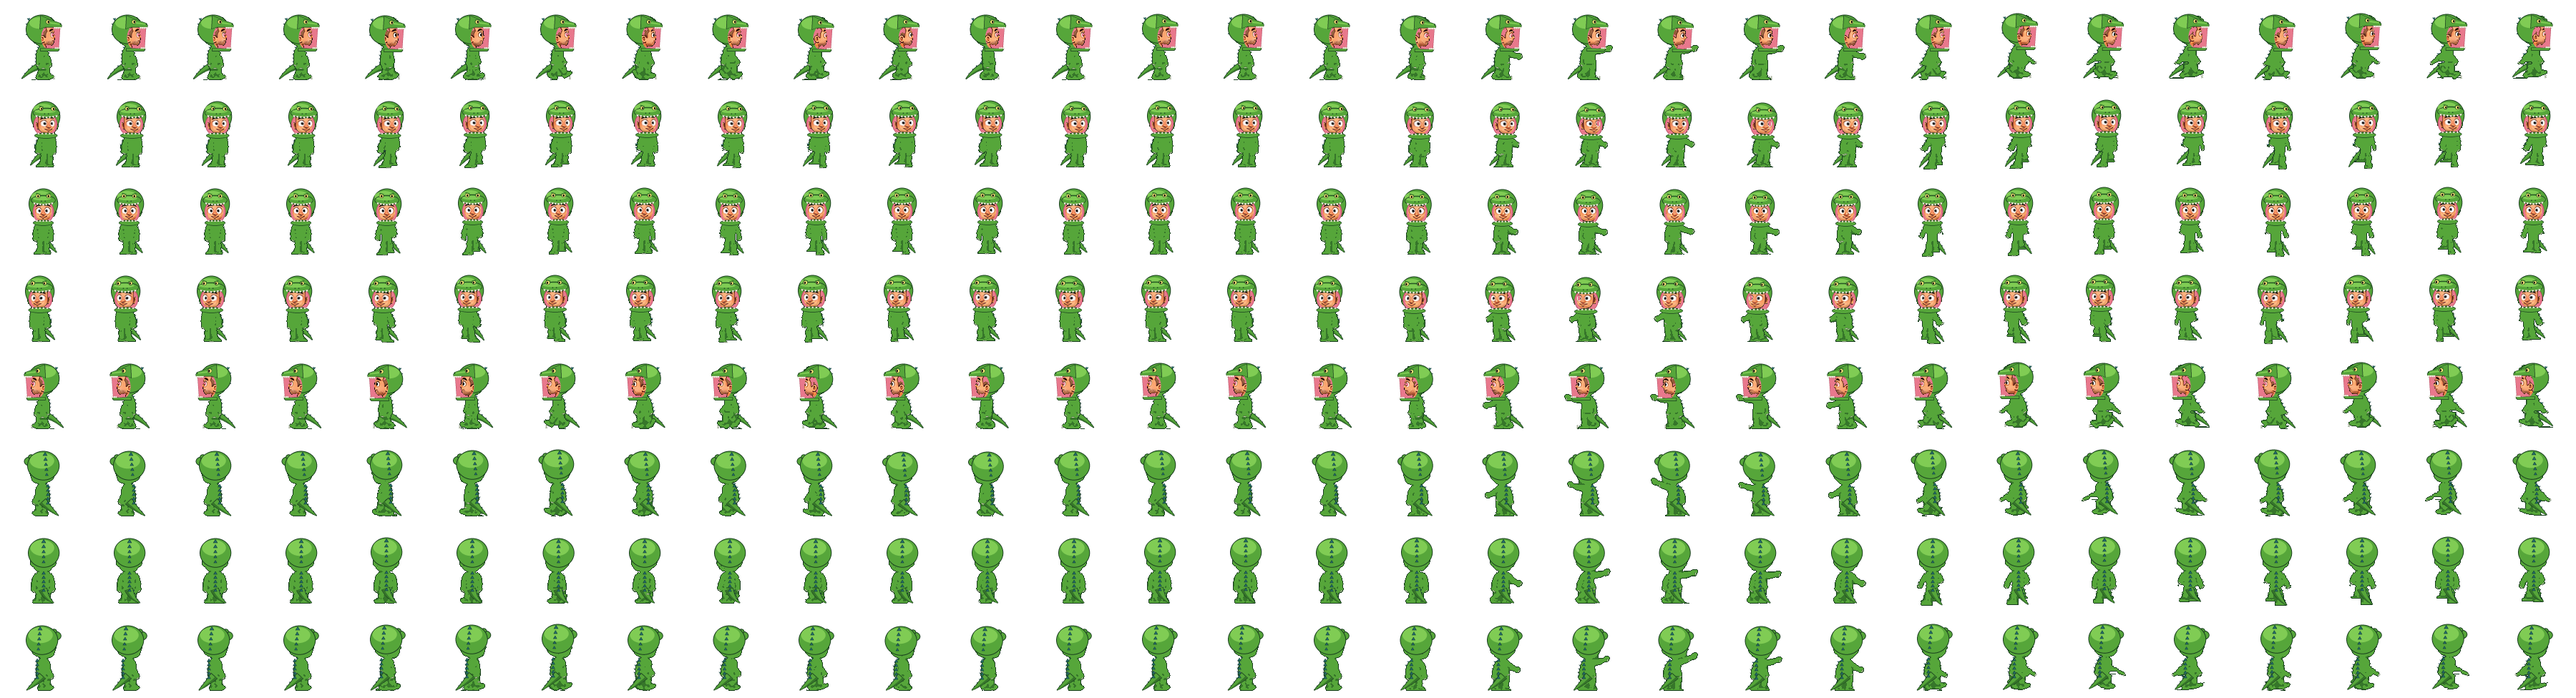
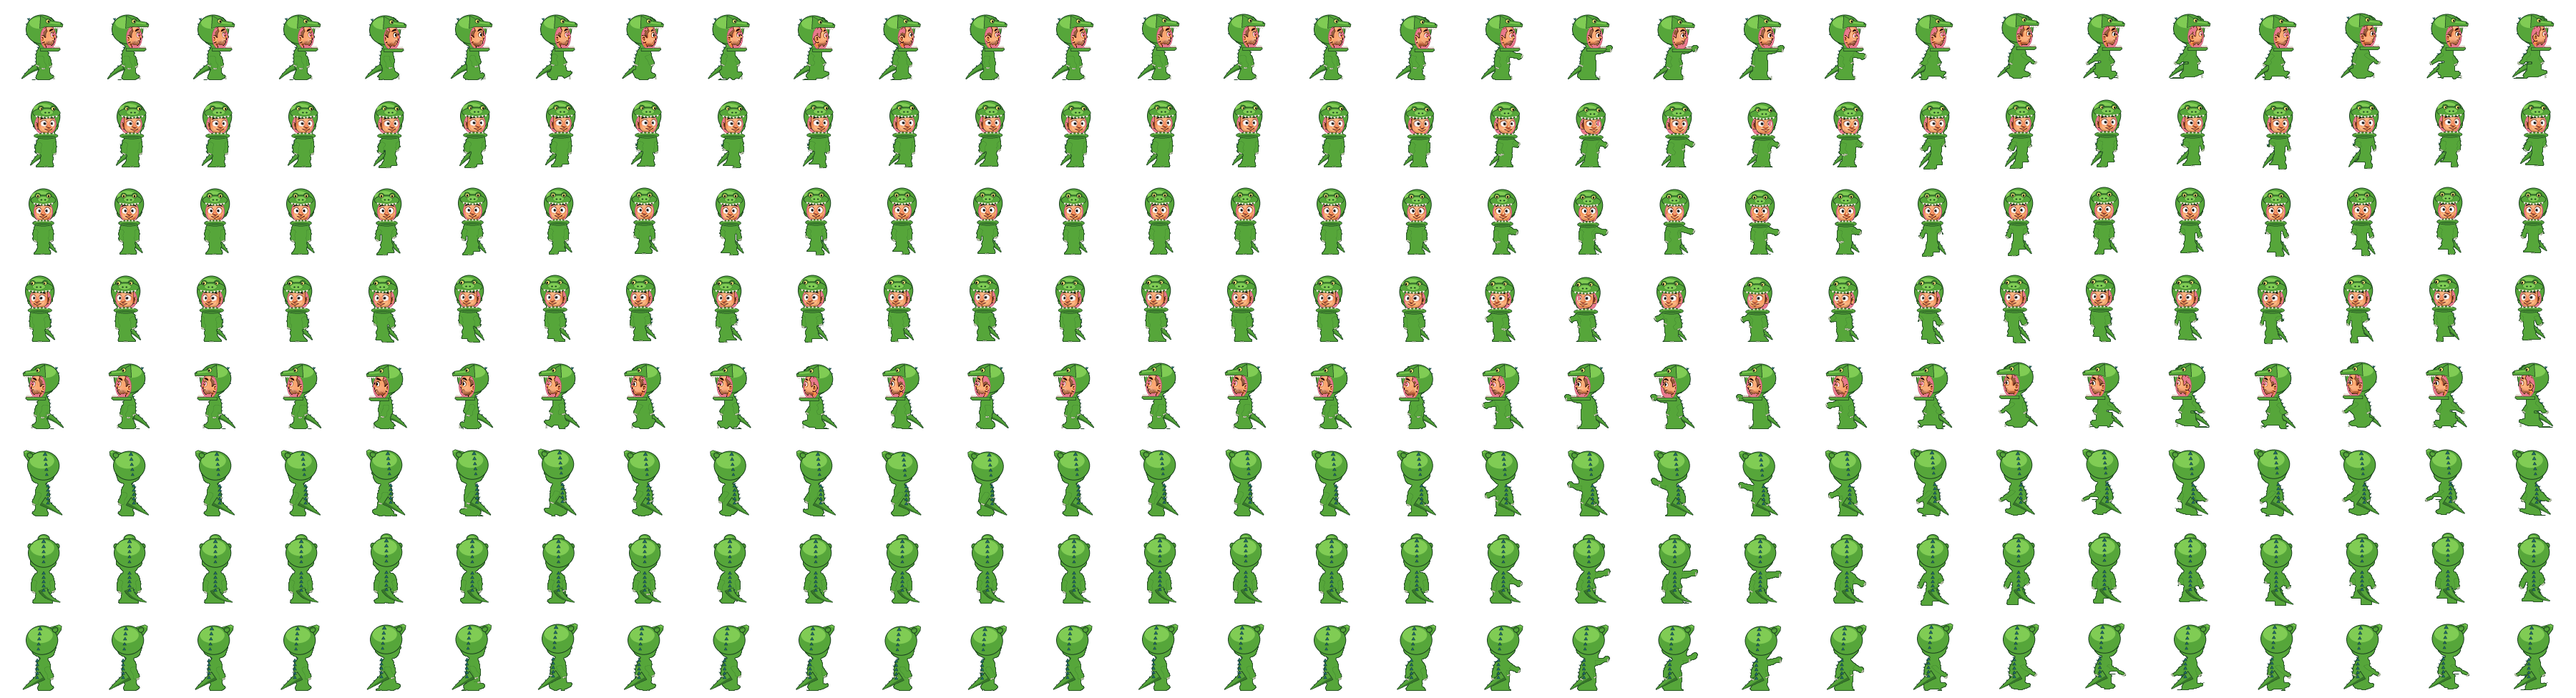
Dino skin: snout projects over face in profile, back-view snout/eye ridges, front snout+nostrils, smooth AA outlines, readable claws

diff --git a/phaser-tag-client/tools/make_trex_skin.py b/phaser-tag-client/tools/make_trex_skin.py
@@ -344,37 +344,38 @@ def box_blur(x: np.ndarray, r: int) -> np.ndarray:
     return s / (k * k)
 
 
-def onesie(f: np.ndarray, solid: np.ndarray) -> np.ndarray:
-    rgb = f[..., :3].astype(np.float64)
-    lum = rgb @ np.array([0.3, 0.59, 0.11])
-    a = alpha_mask(f)
-    filled_lum = np.where(a, lum, np.nan)
-    m = np.nan_to_num(filled_lum, nan=0)
-    w = box_blur(a.astype(float), 3)
-    local = box_blur(m, 3) / np.maximum(w, 1e-6)
-    out = np.zeros(f.shape, dtype=np.float64)
-    col = np.empty(f.shape[:2] + (3,))
+def _up(mask: np.ndarray, blur: float) -> np.ndarray:
+    """Upsample a binary mask to SS resolution with smooth contours."""
+    from PIL import ImageFilter
+    h, w = mask.shape
+    im = Image.fromarray((mask * 255).astype(np.uint8)).resize((w * SS, h * SS), Image.BILINEAR)
+    im = im.filter(ImageFilter.GaussianBlur(blur * SS))
+    return np.asarray(im).astype(np.float64) / 255.0
+
+
+def onesie(solid: np.ndarray, arms: np.ndarray) -> np.ndarray:
+    """Solid green onesie with smooth anti-aliased outlines (flat fill)."""
+    h, w = solid.shape
+    m = _up(solid, 0.45) > 0.5
+    soft = _up(m[::1, ::1].astype(float), 0) if False else None  # noqa: F841
+    from PIL import ImageFilter
+    mi = Image.fromarray((m * 255).astype(np.uint8))
+    inner = np.asarray(mi.filter(ImageFilter.MinFilter(2 * int(0.8 * SS) + 1))) > 127
+    col = np.empty((h * SS, w * SS, 3))
     col[:] = G_MID
-    rel = np.where(a, lum / np.maximum(local, 1), 1.0)
-    tone = np.ones(f.shape[:2], dtype=np.int32)
-    tone[rel < 0.62] = 0
-    # 3x3 majority filter -> flat shading, no speckle
-    votes = np.stack([box_blur((tone == k).astype(float), 1) for k in range(3)])
-    votes[1] += 0.12
-    tone = votes.argmax(0)
-    col[tone == 0] = G_DARK
-    col[tone == 2] = G_LIGHT
-    # silhouette edge
-    inner = solid.copy()
-    inner[1:] &= solid[:-1]
-    inner[:-1] &= solid[1:]
-    inner[:, 1:] &= solid[:, :-1]
-    inner[:, :-1] &= solid[:, 1:]
-    col[solid & ~inner] = G_LINE
-    out[..., :3] = col / 255.0
-    out[..., 3] = solid.astype(float)
-    out[..., :3] *= out[..., 3:4]
-    return out
+    # soft flat shadow on the lower/back half of each limb region is skipped:
+    # one clean fill + light belly sheen keeps it readable at game size.
+    if arms.any():
+        am = _up(arms, 0.45) > 0.5
+        ai = np.asarray(Image.fromarray((am * 255).astype(np.uint8))
+                        .filter(ImageFilter.MinFilter(2 * int(0.35 * SS) + 1))) > 127
+        col[am & ~ai & inner] = G_DARK
+    col[m & ~inner] = G_LINE
+    rgba = np.zeros((h * SS, w * SS, 4), dtype=np.uint8)
+    rgba[..., :3] = col.astype(np.uint8)
+    rgba[..., 3] = m * 255
+    small = Image.fromarray(rgba).resize((w, h), Image.BOX)
+    return premul(np.asarray(small))
 
 
 # ---------------------------------------------------------------- per frame
@@ -411,12 +412,13 @@ def build(frame: np.ndarray, direction: str, col: int, prof: dict) -> np.ndarray
         face = inside & fill_holes(sk & inside) & solid
 
     hands = np.zeros_like(a)
+    arms = np.zeros_like(a)
     try:
-        _, hands = arms_and_hands(f, g, face)
+        arms, hands = arms_and_hands(f, g, face)
     except Exception:
         pass
 
-    body = onesie(f, solid)
+    body = onesie(solid, arms)
     sway = math.sin(col * 2 * math.pi / 8) * 0.8
 
     # ---- tail
@@ -444,14 +446,14 @@ def build(frame: np.ndarray, direction: str, col: int, prof: dict) -> np.ndarray
     elif direction == "N":
         p0 = (ax, ay - 2)
         p1 = (ax + 4, ay + 10)
-        p2 = (ax + 15 + sway, ground + 1)
-        tail(tcv, p0, p1, p2, 5.5, 0)
+        p2 = (ax + 24 + sway, ground)
+        tail(tcv, p0, p1, p2, 6.0, 0)
     else:  # NE / NW: tail trails behind, toward the viewer
         b = -fc
         p0 = (ax, ay - 2)
-        p1 = (ax + b * 9, ay + 8)
-        p2 = (ax + b * 22 + sway, ground + 1)
-        tail(tcv, p0, p1, p2, 5.5, 0)
+        p1 = (ax + b * 12, ay + 6)
+        p2 = (ax + b * 27 + sway, ground)
+        tail(tcv, p0, p1, p2, 6.0, 0)
     tail_l = tcv.premul()
 
     # ---- back spikes (behind the body, peeking out along the spine)
@@ -472,18 +474,31 @@ def build(frame: np.ndarray, direction: str, col: int, prof: dict) -> np.ndarray
     hb = Canvas(W, H)  # hood shell (under face)
     hf = Canvas(W, H)  # jaws / teeth / eyes (over face)
     if ell is None:
-        # back view: whole head in hood
+        # back view: whole head in hood, snout + eye bumps poke past it
         cx = hcx
-        if direction != "N":
-            # snout nub peeking on the far side
-            hb.ellipse(cx + fc * (hw - 1), top + 12, 7, 5.5, G_MID, G_LINE)
-            hb.ellipse(cx + fc * (hw - 3), top + 6, 3.2, 2.6, G_MID, G_LINE)
+        if direction == "N":
+            hb.ellipse(cx, top - 1.5, 7.5, 5.5, G_MID, G_LINE)
+            hb.ellipse(cx - 1, top - 3.0, 4.5, 2.2, G_LIGHT)
+            for d in (-1, 1):
+                hb.ellipse(cx + d * (hw - 0.5), top + 9, 2.4, 3.2, G_MID, G_LINE)
+        else:
+            hb.poly([(cx + fc * 1, top + 3), (cx + fc * (hw + 4), top - 3.5),
+                     (cx + fc * (hw + 7.5), top - 1.5), (cx + fc * (hw + 7), top + 3.5),
+                     (cx + fc * (hw + 1), top + 12)], G_MID, G_LINE, 0.9)
+            hb.poly([(cx + fc * (hw + 3), top - 2.2), (cx + fc * (hw + 6.5), top - 0.8),
+                     (cx + fc * (hw + 6), top + 0.6), (cx + fc * (hw + 2.5), top - 0.6)], G_LIGHT)
         hb.ellipse(cx, top + 18, hw + 1.5, 19.5, G_MID, G_LINE)
         hb.ellipse(cx - 2, top + 11, hw - 3, 11, G_LIGHT)
+        if direction == "N":
+            for d in (-1, 1):
+                hf.line([(cx + d * (hw - 4.5), top + 5.0), (cx + d * (hw - 0.5), top + 7.0)], G_DARK, 1.6)
+        else:
+            hf.ellipse(cx + fc * (hw - 1.5), top + 3.5, 3.2, 3.2, G_MID, G_LINE)
+            hf.line([(cx + fc * (hw - 5), top + 2.0), (cx + fc * (hw + 0.5), top + 0.5)], G_DARK, 1.6)
         sx = cx - fc * 2.5
         for i, y in enumerate((top + 2, top + 9, top + 16, top + 23, top + 30)):
-            s = 4.6 - i * 0.3
-            spike(hf, sx - fc * i * 0.6, y + 2, 0, -1, s, s * 0.6)
+            sz = 4.6 - i * 0.3
+            spike(hf, sx - fc * i * 0.6, y + 2, 0, -1, sz, sz * 0.6)
         for y in np.arange(neck + 5, hem - 1, 6.0):
             spike(hf, sx - fc * 4, y, 0, -1, 4.0, 2.4)
     else:
@@ -493,64 +508,64 @@ def build(frame: np.ndarray, direction: str, col: int, prof: dict) -> np.ndarray
             s = fc * 1.5
             hb.ellipse(hcx, top + 19, hw + 1.5, 20.5, G_MID, G_LINE)
             hb.ellipse(hcx - 3, top + 9, hw - 4, 8, G_LIGHT)
-            # pink mouth lining around the face opening
-            hb.ellipse(ex, ey + 0.5, rx + 2.3, ry + 2.0, PINK, PINK_DARK, 0.7)
+            hb.ellipse(ex, ey + 0.3, rx + 1.1, ry + 1.0, PINK, PINK_DARK, 0.5)
             # lower jaw under the chin
-            hf.ellipse(ex + s * 0.5, chin + 2.2, rx + 1.8, 3.2, G_MID, G_LINE, 0.8)
+            hf.ellipse(ex + s * 0.5, chin + 2.4, rx + 2.5, 3.6, G_MID, G_LINE, 0.8)
+            hf.ellipse(ex + s * 0.5, chin + 3.6, rx, 1.4, G_DARK)
             for i in range(-2, 3):
-                tooth(hf, ex + s * 0.5 + i * rx * 0.38, chin + 0.4, True, 2.8)
-            # upper jaw / snout band over the forehead
+                tooth(hf, ex + s * 0.5 + i * rx * 0.38, chin + 0.2, True, 2.8)
+            # upper jaw + snout over the forehead
             jy = ftop - 1.5
-            hf.ellipse(ex + s, jy, rx + 4.5, 6.2, G_MID, G_LINE, 0.9)
-            hf.ellipse(ex + s - 2, jy - 2.5, rx + 1, 2.6, G_LIGHT)
+            for d in (-1, 1):  # eye bumps (behind the snout)
+                hf.ellipse(ex + s + d * rx * 0.64 + s * 0.6, jy - 6.0, 3.6, 3.4, G_MID, G_LINE, 0.8)
+            hf.ellipse(ex + s, jy, rx + 5, 6.4, G_MID, G_LINE, 0.9)
+            hf.ellipse(ex + s * 1.4, jy - 1.2, rx * 0.62, 4.0, G_LIGHT, G_DARK, 0.5)
             for i in range(-3, 4):
-                tooth(hf, ex + s + i * (rx + 2) * 0.3, jy + 5.2 - abs(i) * 0.6, False, 3.0)
-            # nostrils
+                tooth(hf, ex + s + i * (rx + 2) * 0.3, jy + 5.3 - abs(i) * 0.6, False, 3.0)
             for d in (-1, 1):
-                hf.ellipse(ex + s + d * 2.6, jy + 1.2, 0.8, 0.6, G_LINE)
-            # eyes + brow ridge on top of the snout
+                hf.ellipse(ex + s * 1.6 + d * 2.6, jy - 0.6, 1.2, 0.85, G_LINE)
             for d in (-1, 1):
-                x = ex + s + d * (rx * 0.62) + s * 0.6
+                x = ex + s + d * (rx * 0.64) + s * 0.6
                 y = jy - 6.0
-                r = 2.5 if d * fc >= 0 else 2.1
-                hf.ellipse(x, y, r, r, EYE, G_LINE, 0.7)
+                r = 2.4 if d * fc >= 0 else 2.0
+                hf.ellipse(x, y, r, r, EYE, G_LINE, 0.6)
                 hf.ellipse(x + s * 0.4, y + 0.3, r * 0.45, r * 0.62, PUPIL)
-                hf.line([(x - d * 3.2, y - 2.0), (x + d * 2.6, y - 3.6)], G_DARK, 1.6)
+                hf.line([(x - d * 3.4, y - 2.0), (x + d * 2.8, y - 3.8)], G_DARK, 1.7)
         else:
             # side profile, facing fc
-            hb.ellipse(hcx - fc * 1.5, top + 18, hw + 1.5, 19.5, G_MID, G_LINE)
-            hb.ellipse(hcx - fc * 4, top + 9, hw - 5, 8, G_LIGHT)
             for i, y in enumerate((top + 4, top + 11, top + 18, top + 25)):
                 spike(hb, hcx - fc * (hw + 1.0 + (i == 0) * -2), y, -fc, -0.4 + i * 0.15, 3.0, 1.8)
             hb.ellipse(hcx - fc * 1.5, top + 18, hw + 1.5, 19.5, G_MID, G_LINE)
             hb.ellipse(hcx - fc * 4, top + 9, hw - 5, 8, G_LIGHT)
+            hb.ellipse(ex, ey + 0.3, rx + 0.9, ry + 0.8, PINK, PINK_DARK, 0.5)
             front = ex + fc * rx
-            # mouth lining between the jaws in front of the face
-            hb.poly([(front - fc * 3, ftop + 1), (front + fc * 6.5, ftop + 2.5),
-                     (front + fc * 4.5, chin + 0.5), (front - fc * 3, chin)],
-                    PINK, PINK_DARK, 0.7)
-            hb.ellipse(ex + fc * 1, ey + 0.5, rx + 1.2, ry + 1.2, PINK)
-            # lower jaw
-            hf.poly([(ex - fc * (rx + 1), chin), (front + fc * 5, chin + 0.5),
-                     (front + fc * 5.5, chin + 2.2), (front + fc * 3.5, chin + 4.0),
-                     (ex - fc * (rx + 1), chin + 4.2)], G_MID, G_LINE, 0.8)
+            # lower jaw under the chin, thin pink lining on its rim
+            hf.poly([(front - fc * 3, chin - 1.5), (front + fc * 6, chin - 0.6),
+                     (front + fc * 6, chin + 0.6), (front - fc * 3, chin + 0.4)], PINK, PINK_DARK, 0.4)
             for i in range(3):
-                tooth(hf, front + fc * (0.5 + i * 2.4), chin + 0.6, True, 2.8)
-            # upper jaw + snout
-            jy = ftop + 1.5
-            hf.poly([(hcx - fc * 3, top - 1.5), (ex + fc * rx * 0.6, ftop - 8),
-                     (front + fc * 7.5, ftop - 4), (front + fc * 9, ftop - 1),
-                     (front + fc * 8.5, jy), (ex - fc * rx * 0.5, jy),
-                     (hcx - fc * 4, ftop + 4)], G_MID, G_LINE, 0.9)
-            hf.poly([(ex - fc * 1, ftop - 6.5), (front + fc * 6.5, ftop - 3.2),
-                     (front + fc * 6, ftop - 1.8), (ex - fc * 2, ftop - 3.8)], G_LIGHT)
+                tooth(hf, front + fc * (0.2 + i * 2.3), chin - 0.8, True, 2.6)
+            hf.poly([(ex - fc * (rx + 1), chin - 0.2), (front + fc * 6.5, chin + 0.2),
+                     (front + fc * 6.8, chin + 1.8), (front + fc * 4, chin + 4.0),
+                     (ex - fc * (rx + 1), chin + 4.2)], G_MID, G_LINE, 0.8)
+            # upper jaw / snout projecting forward above the face
+            jy = ftop + 0.8
+            hf.poly([(front - fc * 4, jy - 0.4), (front + fc * 10, jy - 0.4),
+                     (front + fc * 9.5, jy + 1.0), (front - fc * 4, jy + 1.0)], PINK, PINK_DARK, 0.4)
             for i in range(4):
-                tooth(hf, front + fc * (-0.5 + i * 2.5), jy - 0.1, False, 3.0)
-            hf.ellipse(front + fc * 7.2, ftop - 2.6, 0.8, 0.6, G_LINE)
-            x, y = ex - fc * 0.5, ftop - 6.0
-            hf.ellipse(x, y, 2.5, 2.5, EYE, G_LINE, 0.7)
-            hf.ellipse(x + fc * 0.8, y + 0.3, 1.1, 1.6, PUPIL)
-            hf.line([(x - fc * 3, y - 2.6), (x + fc * 3, y - 3.4)], G_DARK, 1.7)
+                tooth(hf, front + fc * (-0.8 + i * 2.6), jy + 0.6, False, 3.0)
+            ex2 = ex - fc * 0.5
+            hf.ellipse(ex2, ftop - 6.5, 3.6, 3.4, G_MID, G_LINE, 0.8)  # eye bump
+            hf.poly([(hcx - fc * 3, top - 1.0), (ex, ftop - 8.5),
+                     (front + fc * 7, ftop - 5.5), (front + fc * 10.5, ftop - 2.5),
+                     (front + fc * 10, jy), (ex - fc * rx * 0.4, jy),
+                     (hcx - fc * 4, ftop + 3)], G_MID, G_LINE, 0.9)
+            hf.poly([(ex + fc * 1, ftop - 6.2), (front + fc * 7, ftop - 3.6),
+                     (front + fc * 6.5, ftop - 2.4), (ex + fc * 0.5, ftop - 4.0)], G_LIGHT)
+            hf.ellipse(front + fc * 8.4, ftop - 3.0, 1.0, 0.7, G_LINE)
+            x, y = ex2, ftop - 6.8
+            hf.ellipse(x, y, 2.4, 2.4, EYE, G_LINE, 0.6)
+            hf.ellipse(x + fc * 0.8, y + 0.3, 1.1, 1.5, PUPIL)
+            hf.line([(x - fc * 3.2, y - 2.4), (x + fc * 3.2, y - 3.6)], G_DARK, 1.7)
     hood_b = hb.premul()
     hood_f = hf.premul()
 
@@ -569,7 +584,7 @@ def build(frame: np.ndarray, direction: str, col: int, prof: dict) -> np.ndarray
             tx, ty = xs[tip] + 0.5, ys[tip] + 0.5
             px, py = -dy, dx
             for k in (-1, 0, 1):
-                claw(ccv, tx + px * k * 1.3 - dx * 0.6, ty + py * k * 1.3 - dy * 0.6, dx, dy, 1.8)
+                claw(ccv, tx + px * k * 1.4 - dx * 0.4, ty + py * k * 1.4 - dy * 0.4, dx, dy, 2.6)
     foot = solid & (yy >= g.bottom - 6)
     for comp in components8(foot):
         if comp.sum() < 6:
